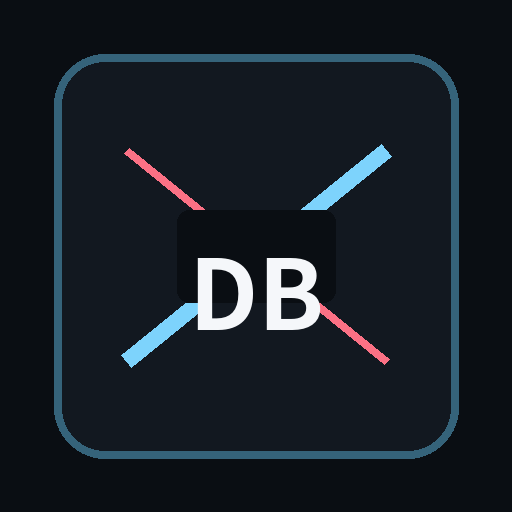
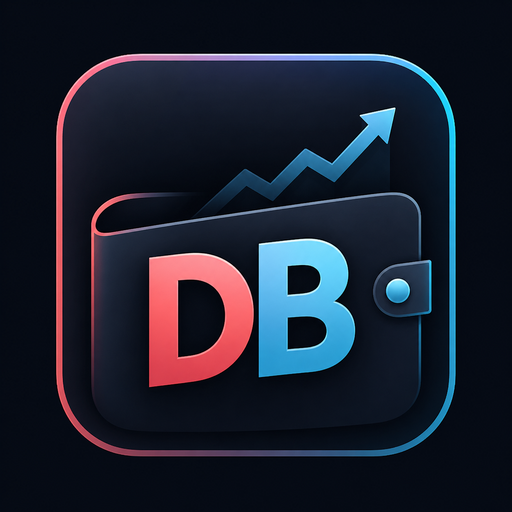
Add files via upload

Changed region(s): [[0.1562, 0.1875, 0.8438, 0.7812], [0.0938, 0.0938, 0.9062, 0.9062]]

diff --git a/index.html b/index.html
@@ -92,6 +92,15 @@ button:focus-visible,input:focus-visible,select:focus-visible,summary:focus-visi
 .pwa-update-banner{display:none;position:sticky;top:8px;z-index:30;background:#17232d;border:1px solid #35637a;border-radius:14px;padding:11px 12px;margin:0 0 12px;box-shadow:var(--shadow)}
 .pwa-update-row{display:flex;align-items:center;gap:10px;justify-content:space-between}.pwa-update-copy{font-size:12px;line-height:1.55;color:#dbe7ee}.pwa-update-copy strong{color:var(--blue)}.pwa-update-row button{width:auto;white-space:nowrap;padding:9px 12px;font-size:12px}
 .pwa-action-row{display:grid;grid-template-columns:1fr 1fr;gap:8px}@media(max-width:560px){.pwa-update-row{align-items:stretch;flex-direction:column}.pwa-update-row button{width:100%}.pwa-action-row{grid-template-columns:1fr}}
+
+/* ===== v18.45 QUICK EXPENSE INPUT ===== */
+.quick-expense-card{border-color:#355264;background:linear-gradient(145deg,rgba(17,29,38,.99),rgba(15,22,29,.99))}
+.quick-budget-grid{display:grid;grid-template-columns:1fr 1fr;gap:9px;margin-bottom:16px}.quick-budget-card{background:#0f151b;border:1px solid #30404c;border-radius:14px;padding:12px}.quick-budget-head{display:flex;justify-content:space-between;align-items:baseline;gap:8px}.quick-budget-head span{font-size:12px;font-weight:900;color:#dce6ec}.quick-budget-head strong{font-size:19px;font-weight:950;font-variant-numeric:tabular-nums}.quick-budget-meta{font-size:10px;color:var(--muted);margin-top:4px;min-height:15px}.quick-budget-progress{height:7px;background:#26313a;border-radius:999px;overflow:hidden;margin-top:8px}.quick-budget-progress>span{display:block;height:100%;width:0;background:linear-gradient(90deg,#7dd3fc,#c4b5fd);border-radius:999px;transition:width .2s}.quick-budget-card.over{border-color:#69424a}.quick-budget-card.over .quick-budget-head strong{color:var(--red)}.quick-budget-card.over .quick-budget-progress>span{background:linear-gradient(90deg,#fbbf24,#fb7185)}
+.quick-amount-field{margin:2px 0 16px}.quick-amount-field label{font-size:13px;font-weight:900;color:#dfe8ee}.quick-amount-wrap{display:grid;grid-template-columns:auto 1fr;align-items:center;gap:8px;background:#0c1218;border:1px solid #3b5261;border-radius:16px;padding:6px 13px}.quick-amount-wrap:focus-within{border-color:#6ab5d7;box-shadow:0 0 0 3px rgba(125,211,252,.10)}.quick-amount-wrap>span{font-size:25px;font-weight:950;color:#a9bac5}.quick-amount-wrap input{border:0;background:transparent;padding:9px 0;font-size:30px;font-weight:950;letter-spacing:-.03em;font-variant-numeric:tabular-nums}.quick-amount-wrap input:focus{box-shadow:none}
+.quick-category-title{font-size:13px;font-weight:950;margin:2px 0 10px}.quick-hidden-select{display:none}.quick-category-group{margin-bottom:12px}.quick-category-group-title{display:flex;align-items:baseline;justify-content:space-between;gap:8px;margin:0 2px 7px}.quick-category-group-title span{font-size:11px;font-weight:900;color:#cdd8df}.quick-category-group-title small{font-size:9px;color:var(--muted)}.quick-category-grid{display:grid;grid-template-columns:repeat(3,1fr);gap:7px}.expense-cat-btn{background:#1c2630;color:#dce5eb;border:1px solid #34424e;padding:11px 7px;min-height:44px;font-size:12px;line-height:1.25}.expense-cat-btn:hover{background:#222f3a}.expense-cat-btn.selected{background:rgba(125,211,252,.14);color:#f5fbff;border-color:#5f9fbd;box-shadow:inset 0 0 0 1px rgba(125,211,252,.12)}.expense-cat-btn.selected:before{content:'✓ ';color:var(--green)}.quick-category-grid-single{grid-template-columns:1fr}
+.quick-expense-preview{background:#0d141a;border:1px solid #2f3f4c;border-radius:13px;padding:11px 12px;margin:13px 0;font-size:12px;line-height:1.65;color:#b9c5ce}.quick-expense-preview strong{font-size:15px;color:#f3f7fa;font-variant-numeric:tabular-nums}.quick-expense-preview.good{border-color:#315e52;background:rgba(52,211,153,.06)}.quick-expense-preview.warn{border-color:#64552e;background:rgba(251,191,36,.06)}.quick-expense-preview.bad{border-color:#69414a;background:rgba(251,113,133,.07)}
+.quick-expense-details{margin-top:10px;border-top:1px dashed #35424d;padding-top:6px}.quick-expense-details summary{cursor:pointer;display:flex;justify-content:space-between;align-items:center;gap:10px;padding:8px 2px;color:#aebbc5;font-size:11px;font-weight:850;list-style:none}.quick-expense-details summary::-webkit-details-marker{display:none}.quick-expense-details summary>span:before{content:'＋';display:inline-block;width:18px;color:var(--blue)}.quick-expense-details[open] summary>span:before{content:'−'}.quick-expense-details summary small{font-size:10px;color:#7f8c97;font-weight:700;text-align:right}.quick-expense-details-body{padding-top:7px}
+@media(max-width:520px){.quick-budget-grid{gap:7px}.quick-budget-card{padding:11px}.quick-budget-head strong{font-size:17px}.quick-category-grid{grid-template-columns:repeat(3,1fr);gap:6px}.expense-cat-btn{padding:10px 5px;font-size:11px}.quick-amount-wrap input{font-size:28px}}
 </style>
 <link rel="manifest" href="./manifest.webmanifest">
 <link rel="apple-touch-icon" href="./icons/icon-192.png">
@@ -214,13 +223,27 @@ button:focus-visible,input:focus-visible,select:focus-visible,summary:focus-visi
       <button type="button" id="ledgerAnalysisTab" role="tab" aria-selected="false">分析</button>
     </div>
     <div id="ledgerInputPanel">
-    <div class="card action-card"><div class="kicker">QUICK ACTION</div><h2>支出を記録</h2>
-<div class="grid2"><div class="field"><label>日付</label><input id="expenseDate" type="date"/></div><div class="field"><label>カテゴリ</label><select id="expenseCategory"><option>外食</option><option value="コンビニ">コンビニ（嗜好・ついで買い）</option><option>食料品</option><option>交通</option><option>趣味</option><option>日用品</option><option>交際費</option><option value="買い物">嗜好品・買い物</option><option>その他</option></select></div></div>
-<div class="grid2"><div class="field"><label>内容</label><input id="expenseMemo" placeholder="例：ランチ" type="text"/></div><div class="field"><label>金額</label><input id="expenseAmount" min="0" step="100" type="number"/></div></div>
-<div class="field"><label>支払方法</label><select id="expensePaymentMethod"><option value="cash">現金・銀行残高から支払う</option><option value="untracked">残高連動なし</option></select>
-<div class="footer" style="margin-top:5px">現在月の現金払いは現在残高を減らします。カード払いは選んだカード残高を増やします。過去月の入力は現在残高へ反映しません。</div>
+    <div class="card action-card quick-expense-card"><div class="kicker">QUICK EXPENSE</div><h2>支出を記録</h2>
+<div class="quick-budget-grid" aria-label="選択月の予算残高">
+  <div class="quick-budget-card"><div class="quick-budget-head"><span>生活費</span><strong id="quickLivingRemaining">-</strong></div><div class="quick-budget-meta" id="quickLivingMeta">-</div><div class="quick-budget-progress"><span id="quickLivingBar"></span></div></div>
+  <div class="quick-budget-card"><div class="quick-budget-head"><span>自由費</span><strong id="quickFunRemaining">-</strong></div><div class="quick-budget-meta" id="quickFunMeta">-</div><div class="quick-budget-progress"><span id="quickFunBar"></span></div></div>
 </div>
-<button id="addExpenseBtn">支出を追加</button>
+<div class="field quick-amount-field"><label for="expenseAmount">いくら使った？</label><div class="quick-amount-wrap"><span>¥</span><input id="expenseAmount" inputmode="numeric" min="0" placeholder="0" step="100" type="number"/></div></div>
+<div class="quick-category-title">何に使った？</div>
+<select id="expenseCategory" class="quick-hidden-select" aria-hidden="true" tabindex="-1"><option value="">未選択</option><option>外食</option><option value="コンビニ">コンビニ（嗜好・ついで買い）</option><option>食料品</option><option>交通</option><option>趣味</option><option>日用品</option><option>交際費</option><option value="買い物">嗜好品・買い物</option><option>その他</option></select>
+<div class="quick-category-group"><div class="quick-category-group-title"><span>生活費</span><small>残り予算から使う</small></div><div class="quick-category-grid">
+  <button type="button" class="expense-cat-btn" data-category="食料品">食料品</button><button type="button" class="expense-cat-btn" data-category="日用品">日用品</button><button type="button" class="expense-cat-btn" data-category="交通">交通</button>
+</div></div>
+<div class="quick-category-group"><div class="quick-category-group-title"><span>自由費</span><small>使いすぎをチェック</small></div><div class="quick-category-grid">
+  <button type="button" class="expense-cat-btn" data-category="外食">外食</button><button type="button" class="expense-cat-btn" data-category="コンビニ">コンビニ</button><button type="button" class="expense-cat-btn" data-category="趣味">趣味</button><button type="button" class="expense-cat-btn" data-category="買い物">嗜好品・買い物</button><button type="button" class="expense-cat-btn" data-category="交際費">交際費</button>
+</div></div>
+<div class="quick-category-group"><div class="quick-category-group-title"><span>その他</span><small>専用予算なし</small></div><div class="quick-category-grid quick-category-grid-single"><button type="button" class="expense-cat-btn" data-category="その他">その他</button></div></div>
+<div id="expenseQuickPreview" class="quick-expense-preview">金額を入力して、使ったカテゴリをタップしてください。</div>
+<button id="addExpenseBtn">金額とカテゴリを選択</button>
+<details class="quick-expense-details"><summary><span>日付・メモ・支払方法</span><small id="expenseDetailSummary">-</small></summary><div class="quick-expense-details-body">
+  <div class="grid2"><div class="field"><label>日付</label><input id="expenseDate" type="date"/></div><div class="field"><label>内容（任意）</label><input id="expenseMemo" placeholder="例：スーパー、ランチ" type="text"/></div></div>
+  <div class="field"><label>支払方法</label><select id="expensePaymentMethod"><option value="cash">現金・銀行残高から支払う</option><option value="untracked">残高連動なし</option></select><div class="footer" style="margin-top:5px">現在月の現金払いは現在残高を減らします。カード払いは選んだカード残高を増やします。過去月の入力は現在残高へ反映しません。</div></div>
+</div></details>
 </div>
     <details class="card ui-details" open><summary>固定費を支払った（現在月）</summary><div class="details-body"><div class="grid2">
 <div class="field"><label>固定費</label><select id="fixedPayType">
@@ -460,7 +483,7 @@ const FRESH_SETTINGS={
   foodBudget:0,funBudget:0,otherDebt:0,repay:0,arrears:0,arrearsPay:0,
   reserve:0,dailyLimit:0,diningBudget:0,strictMode:true
 };
-const APP_VERSION="18.44";
+const APP_VERSION="18.45";
 const SCHEMA_VERSION=23;
 const appVersionBadge=document.getElementById("appVersionBadge");
 if(appVersionBadge)appVersionBadge.textContent=`v${APP_VERSION}`;
@@ -2931,6 +2954,80 @@ function paymentMethodLabel(v){
   return v;
 }
 
+function quickExpenseBucket(category){
+  if(["食料品","日用品","交通"].includes(category))return"living";
+  if(["外食","コンビニ","趣味","買い物","交際費"].includes(category))return"fun";
+  return"other";
+}
+function setQuickBudgetCard(prefix,used,budget,partial){
+  const remainingEl=document.getElementById(`quick${prefix}Remaining`),metaEl=document.getElementById(`quick${prefix}Meta`),barEl=document.getElementById(`quick${prefix}Bar`);
+  if(!remainingEl||!metaEl||!barEl)return;
+  const card=remainingEl.closest(".quick-budget-card");
+  if(partial){
+    remainingEl.textContent="算定不可";metaEl.textContent="部分記録のため当時の予算不明";barEl.style.width="0%";card?.classList.remove("over");return;
+  }
+  used=Math.max(0,Number(used)||0);budget=Math.max(0,Number(budget)||0);
+  const remaining=Math.max(0,budget-used),over=Math.max(0,used-budget),pct=budget>0?Math.min(100,used/budget*100):(used>0?100:0);
+  remainingEl.textContent=over>0?`超過 ${yen(over)}`:`残り ${yen(remaining)}`;
+  metaEl.textContent=`使用 ${yen(used)} / 予算 ${yen(budget)}`;
+  barEl.style.width=`${pct}%`;
+  card?.classList.toggle("over",over>0);
+}
+function renderQuickExpenseBudgets(){
+  const bd=monthBudgetBreakdown(selectedMonth),partial=isPartialHistoricalMonth(selectedMonth);
+  setQuickBudgetCard("Living",bd.food,bd.plan.foodBudget,partial);
+  setQuickBudgetCard("Fun",bd.fun,bd.plan.funBudget,partial);
+}
+function renderQuickExpenseSelection(){
+  const value=document.getElementById("expenseCategory")?.value||"";
+  document.querySelectorAll(".expense-cat-btn").forEach(btn=>{
+    const selected=btn.dataset.category===value;
+    btn.classList.toggle("selected",selected);
+    btn.setAttribute("aria-pressed",selected?"true":"false");
+  });
+}
+function renderQuickExpenseDetailsSummary(){
+  const el=document.getElementById("expenseDetailSummary");if(!el)return;
+  const date=document.getElementById("expenseDate")?.value||"日付未設定";
+  const method=paymentMethodLabel(document.getElementById("expensePaymentMethod")?.value||"");
+  el.textContent=`${date} / ${method}`;
+}
+function renderQuickExpensePreview(){
+  const preview=document.getElementById("expenseQuickPreview"),button=document.getElementById("addExpenseBtn");
+  if(!preview||!button)return;
+  const amount=formNum("expenseAmount"),category=document.getElementById("expenseCategory")?.value||"";
+  preview.className="quick-expense-preview";
+  if(amount<=0&&!category){preview.textContent="金額を入力して、使ったカテゴリをタップしてください。";button.textContent="金額とカテゴリを選択";return}
+  if(amount<=0){preview.textContent=`${categoryDisplayLabel(category)}を選択中。金額を入力してください。`;button.textContent="金額を入力";return}
+  if(!category){preview.innerHTML=`<strong>${yen(amount)}</strong><br>何に使ったかをカテゴリから選んでください。`;button.textContent="カテゴリを選択";return}
+  button.textContent=`${yen(amount)} を記録`;
+  if(isPartialHistoricalMonth(selectedMonth)){
+    preview.innerHTML=`<strong>${categoryDisplayLabel(category)} / ${yen(amount)}</strong><br>${monthLabel(selectedMonth)}は部分記録のため残り予算は算定しません。支出記録はできます。`;
+    preview.classList.add("warn");return;
+  }
+  const before=monthBudgetBreakdown(selectedMonth),after=monthBudgetBreakdown(selectedMonth,{amount,category}),bucket=quickExpenseBucket(category);
+  if(bucket==="living"||bucket==="fun"){
+    const budget=Math.max(0,Number(bucket==="living"?before.plan.foodBudget:before.plan.funBudget)||0);
+    const usedBefore=Math.max(0,Number(bucket==="living"?before.food:before.fun)||0),usedAfter=Math.max(0,Number(bucket==="living"?after.food:after.fun)||0);
+    const remainingBefore=Math.max(0,budget-usedBefore),remainingAfter=Math.max(0,budget-usedAfter),overAfter=Math.max(0,usedAfter-budget);
+    const label=bucket==="living"?"生活費":"自由費";
+    if(overAfter>0){
+      preview.innerHTML=`<strong>${categoryDisplayLabel(category)} / ${yen(amount)}</strong><br>${label}予算を <strong>${yen(overAfter)}</strong> 超える見込みです（支出前残り ${yen(remainingBefore)}）。`;
+      preview.classList.add("bad");
+    }else{
+      preview.innerHTML=`<strong>${categoryDisplayLabel(category)} / ${yen(amount)}</strong><br>${label}残り　${yen(remainingBefore)} → <strong>${yen(remainingAfter)}</strong>`;
+      preview.classList.add(remainingAfter<=Math.max(1000,budget*.1)?"warn":"good");
+    }
+    return;
+  }
+  const beforeNet=monthIncome(selectedMonth)-before.safe,afterNet=monthIncome(selectedMonth)-after.safe;
+  preview.innerHTML=`<strong>${categoryDisplayLabel(category)} / ${yen(amount)}</strong><br>「その他」は専用予算なし。安全余力　${yen(beforeNet)} → <strong>${yen(afterNet)}</strong>`;
+  preview.classList.add(afterNet<0?"bad":afterNet<10000?"warn":"good");
+}
+function renderQuickExpenseUI(){
+  renderQuickExpenseBudgets();renderQuickExpenseSelection();renderQuickExpenseDetailsSummary();renderQuickExpensePreview();
+}
+
 function renderFeeTargets(){
   const sel=document.getElementById("feeTarget"),old=sel.value;
   let opts="";
@@ -3055,6 +3152,7 @@ function refresh(){
   setMetric("totalDebtView",yen(debt),debt>0?"red":"green");
 
   renderExpensePaymentOptions();
+  renderQuickExpenseUI();
   renderRepayTargets();
   renderFeeTargets();
   renderExpenses();
@@ -3456,7 +3554,14 @@ function syncAccountCashOption(){
     document.getElementById("accountChangeReason").disabled=false;
   }
 }
-document.getElementById("expenseDate").addEventListener("change",()=>{expenseDateUserEdited=true});
+document.getElementById("expenseDate").addEventListener("change",()=>{expenseDateUserEdited=true;renderQuickExpenseDetailsSummary()});
+document.getElementById("expenseAmount").addEventListener("input",renderQuickExpensePreview);
+document.getElementById("expensePaymentMethod").addEventListener("change",renderQuickExpenseDetailsSummary);
+document.querySelectorAll(".expense-cat-btn").forEach(btn=>btn.addEventListener("click",()=>{
+  const sel=document.getElementById("expenseCategory");if(!sel)return;
+  sel.value=btn.dataset.category||"";
+  renderQuickExpenseSelection();renderQuickExpensePreview();
+}));
 document.getElementById("actualRepayDate").addEventListener("change",()=>{actualRepayDateUserEdited=true});
 document.getElementById("fixedPayDate").addEventListener("change",()=>{fixedPayDateUserEdited=true});
 document.getElementById("accountType").onchange=syncAccountCashOption;
@@ -3503,7 +3608,8 @@ document.getElementById("addExpenseBtn").onclick=()=>{
   const date=document.getElementById("expenseDate").value||isoForSelectedMonth();
   if(!date.startsWith(selectedMonth)){alert("支出日は現在選択している月の範囲で入力してください。");return}
   if(selectedMonth===currentMonthKey()&&date>todayISO()){alert("未来日の支出は実支出として登録できません。予定支出はまだ現在残高へ反映しません。");return}
-  const category=document.getElementById("expenseCategory").value,memo=document.getElementById("expenseMemo").value.trim(),method=document.getElementById("expensePaymentMethod").value;
+  const category=document.getElementById("expenseCategory").value;if(!category){alert("何に使ったかカテゴリを選択してください");return}
+  const memo=document.getElementById("expenseMemo").value.trim(),method=document.getElementById("expensePaymentMethod").value;
   const current=date.startsWith(currentMonthKey());
   const id=uid();let balanceApplied=false;
   const debtCampaignBefore=current&&method.startsWith("account:")?captureCampaignCheckpoint():null;
@@ -3526,7 +3632,9 @@ document.getElementById("addExpenseBtn").onclick=()=>{
   })){
     document.getElementById("expenseAmount").value="";
     document.getElementById("expenseMemo").value="";
+    document.getElementById("expenseCategory").value="";
     expenseDateUserEdited=false;
+    renderQuickExpenseUI();
     showSaveToast("支出を登録しました",`${memo||categoryDisplayLabel(category)} / ${yen(amount)}`);
   }
 };
@@ -4472,7 +4580,7 @@ setInterval(()=>{if(currentMonthKey()!==runtimeMonth||todayISO()!==runtimeDay)re
 window.addEventListener("focus",()=>{if(currentMonthKey()!==runtimeMonth||todayISO()!==runtimeDay)refresh()});
 document.addEventListener("visibilitychange",()=>{if(!document.hidden&&(currentMonthKey()!==runtimeMonth||todayISO()!==runtimeDay))refresh()});
 
-// ===== PWA / controlled update layer (v18.44) =====
+// ===== PWA / controlled update layer (v18.45) =====
 let deferredPwaInstallPrompt=null;
 let pwaRegistration=null;
 let pwaReloading=false;

diff --git a/sw.js b/sw.js
@@ -1,4 +1,4 @@
-const APP_VERSION="18.44";
+const APP_VERSION="18.45";
 const CACHE_NAME=`debt-breaker-v${APP_VERSION}-shell-v1`;
 const BASE_URL=new URL("./",self.location).href;
 const INDEX_URL=new URL("index.html",BASE_URL).href;
